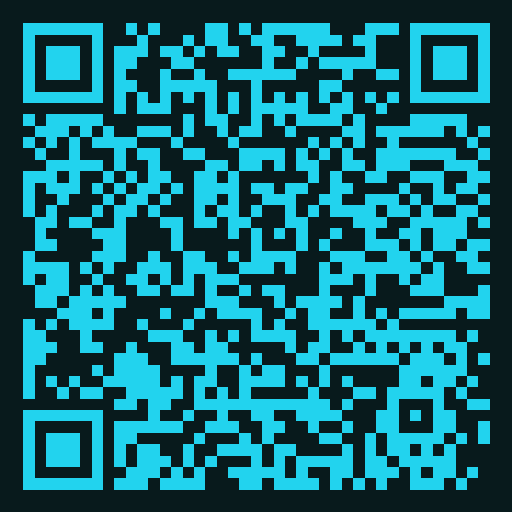
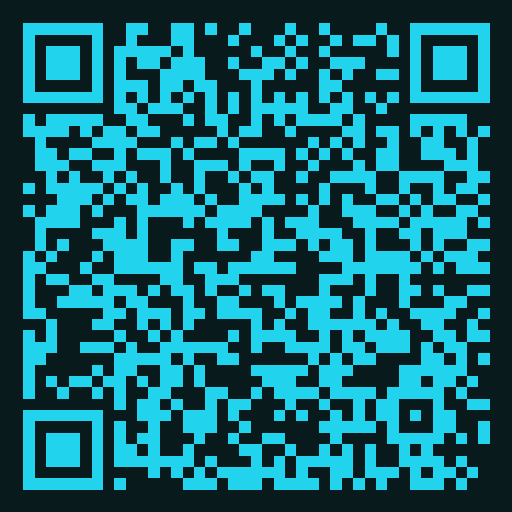
fix(nav): hide root stack header, unify child headers; refresh distribution QR
Made-with: Cursor

diff --git a/app/gerant/distribution.tsx b/app/gerant/distribution.tsx
@@ -58,7 +58,7 @@ function apkTitle(tab: DistributionTabKey): string {
 function apkHint(tab: DistributionTabKey): string {
   switch (tab) {
     case 'unified':
-      return 'QR cyan · une seule app : client, livreur, gérant, Copilote (profil EAS apk-unified, OTA canal hub).';
+      return 'QR cyan · une seule app : client, livreur, gérant, Copilote (profil EAS apk-unified, OTA canal hub). Sur la page Expo, touchez Installer.';
     case 'assistant':
       return 'QR magenta · application Copilote seule (profil apk-assistant).';
     case 'gerant':
@@ -184,13 +184,16 @@ export default function DistributionScreen() {
               <>
                 Cette app <Text style={styles.em}>gérant</Text> sert aux QR <Text style={styles.em}>or / vert / bleu</Text>{' '}
                 uniquement (pas hub unifié ni Copilote). Les QR ouvrent la{' '}
-                <Text style={styles.em}>page Expo</Text>. Fichiers <Text style={styles.mono}>.apk</Text> sur PC :{' '}
+                <Text style={styles.em}>page Expo</Text> : sur le téléphone, utilisez le bouton d’installation sur
+                cette page (le navigateur ne télécharge pas un fichier .apk directement). Fichiers{' '}
+                <Text style={styles.mono}>.apk</Text> sur PC :{' '}
                 <Text style={styles.mono}>npm run apk:download:gerant</Text>, client, livreur ou all.
               </>
             ) : (
               <>
                 Couleurs : cyan = APK unique (hub), magenta = Copilote, puis or / vert / bleu pour les APK
-                dédiés. Les QR ouvrent la <Text style={styles.em}>page Expo</Text>. Fichiers{' '}
+                dédiés. Les QR ouvrent la <Text style={styles.em}>page Expo</Text> : sur le téléphone, utilisez le
+                bouton d’installation (pas de téléchargement direct du .apk dans le navigateur). Fichiers{' '}
                 <Text style={styles.mono}>.apk</Text> sur PC :{' '}
                 <Text style={styles.mono}>npm run apk:download:unified</Text>,{' '}
                 <Text style={styles.mono}>npm run apk:download:assistant</Text>, ou client / gerant / livreur / all.

diff --git a/app/_layout.tsx b/app/_layout.tsx
@@ -16,7 +16,6 @@ import { PaperProvider } from 'react-native-paper';
 
 import { ErrorBoundary } from '@/components/ErrorBoundary';
 import { VariantGate } from '@/components/VariantGate';
-import { FONT } from '@/constants/fonts';
 import { huskoPaperTheme } from '@/constants/paperTheme';
 import { colors } from '@/constants/theme';
 import {
@@ -119,23 +118,13 @@ export default function RootLayout() {
       <ErrorBoundary>
         <VariantGate />
         <StatusBar style="light" />
+        {/* Stack racine : screenOptions s’appliquent à toutes les routes fichier ; pas d’en-tête ici (les _layout enfants ont le leur). */}
         <Stack
           screenOptions={{
-            headerStyle: { backgroundColor: colors.bgLift },
-            headerShadowVisible: false,
-            headerTintColor: colors.gold,
-            headerBackTitle: '',
+            headerShown: false,
             contentStyle: { backgroundColor: 'transparent' },
-            headerTitleStyle: {
-              fontFamily: FONT.bold,
-              fontSize: 17,
-              color: colors.text,
-            },
-            animation: 'slide_from_right',
           }}
-        >
-          <Stack.Screen name="index" options={{ headerShown: false }} />
-        </Stack>
+        />
       </ErrorBoundary>
       </PaperProvider>
     </SafeAreaProvider>

diff --git a/app/client/index.tsx b/app/client/index.tsx
@@ -207,8 +207,11 @@ export default function ClientMenuScreen() {
   return (
     <WestCoastBackground preset="client">
       <SafeAreaView style={styles.root} edges={['bottom']}>
-        <View style={[styles.topChrome, { paddingTop: insets.top + spacing.xs }]}>
-          <Text style={styles.clientKicker}>client</Text>
+        <View
+          style={[styles.topChrome, { paddingTop: insets.top + spacing.xs }]}
+          accessibilityRole="header"
+          accessibilityLabel="Husko client, à la carte"
+        >
           <View style={styles.topBarRow}>
             <BrandMark compact />
             <View style={styles.topTitleCol}>
@@ -326,14 +329,6 @@ export default function ClientMenuScreen() {
 
 const styles = StyleSheet.create({
   root: { flex: 1, backgroundColor: 'transparent' },
-  clientKicker: {
-    fontSize: 11,
-    fontWeight: '700',
-    color: 'rgba(250,250,250,0.45)',
-    letterSpacing: 1,
-    marginBottom: 4,
-    marginLeft: 2,
-  },
   topChrome: {
     paddingHorizontal: spacing.md,
     paddingBottom: spacing.sm,

diff --git a/app/livreur/_layout.tsx b/app/livreur/_layout.tsx
@@ -1,6 +1,6 @@
 import { Ionicons } from '@expo/vector-icons';
 import { Link, Stack } from 'expo-router';
-import { Platform, Pressable, View } from 'react-native';
+import { Pressable, View } from 'react-native';
 
 import { SyncStatusPill } from '@/components/SyncStatusPill';
 import { FONT } from '@/constants/fonts';
@@ -35,7 +35,9 @@ export default function LivreurLayout() {
         headerTintColor: WC.gold,
         headerTitleStyle: { fontFamily: FONT.bold, color: WC.white },
         contentStyle: { backgroundColor: 'transparent' },
-        headerLargeTitle: Platform.OS === 'ios',
+        headerLargeTitle: false,
+        headerBackTitle: '',
+        headerBackButtonDisplayMode: 'minimal',
         headerRight: () => <LivreurHeaderRight showSettings />,
       }}
     >

diff --git a/app/client/_layout.tsx b/app/client/_layout.tsx
@@ -1,6 +1,5 @@
 import { Stack } from 'expo-router';
 import { useState } from 'react';
-import { Platform } from 'react-native';
 
 import { ClientBootOverlay } from '@/components/westcoast/ClientBootOverlay';
 import { SyncStatusPill } from '@/components/SyncStatusPill';
@@ -19,7 +18,9 @@ export default function ClientLayout() {
         headerTintColor: colors.gold,
         headerTitleStyle: { fontFamily: FONT.bold, color: colors.text },
         contentStyle: { backgroundColor: 'transparent' },
-        headerLargeTitle: Platform.OS === 'ios',
+        headerLargeTitle: false,
+        headerBackTitle: '',
+        headerBackButtonDisplayMode: 'minimal',
         headerRight: () => <SyncStatusPill />,
       }}
     >

diff --git a/app/gerant/_layout.tsx b/app/gerant/_layout.tsx
@@ -1,5 +1,4 @@
 import { Stack } from 'expo-router';
-import { Platform } from 'react-native';
 
 import { AutonomousDemoRunner } from '@/components/AutonomousDemoRunner';
 import { SyncStatusPill } from '@/components/SyncStatusPill';
@@ -17,7 +16,9 @@ export default function GerantLayout() {
           headerTintColor: WC.gold,
           headerTitleStyle: { fontFamily: FONT.bold, color: WC.white },
           contentStyle: { backgroundColor: 'transparent' },
-          headerLargeTitle: Platform.OS === 'ios',
+          headerLargeTitle: false,
+          headerBackTitle: '',
+          headerBackButtonDisplayMode: 'minimal',
           headerRight: () => <SyncStatusPill />,
         }}
       >

diff --git a/app/assistant/_layout.tsx b/app/assistant/_layout.tsx
@@ -1,5 +1,4 @@
 import { Stack } from 'expo-router';
-import { Platform } from 'react-native';
 
 import { SyncStatusPill } from '@/components/SyncStatusPill';
 import { FONT } from '@/constants/fonts';
@@ -14,8 +13,9 @@ export default function AssistantLayout() {
         headerTintColor: WC.gold,
         headerTitleStyle: { fontFamily: FONT.bold, color: WC.white },
         contentStyle: { backgroundColor: 'transparent' },
-        headerLargeTitle: Platform.OS === 'ios',
+        headerLargeTitle: false,
         headerBackTitle: '',
+        headerBackButtonDisplayMode: 'minimal',
         headerRight: () => <SyncStatusPill />,
       }}
     >
